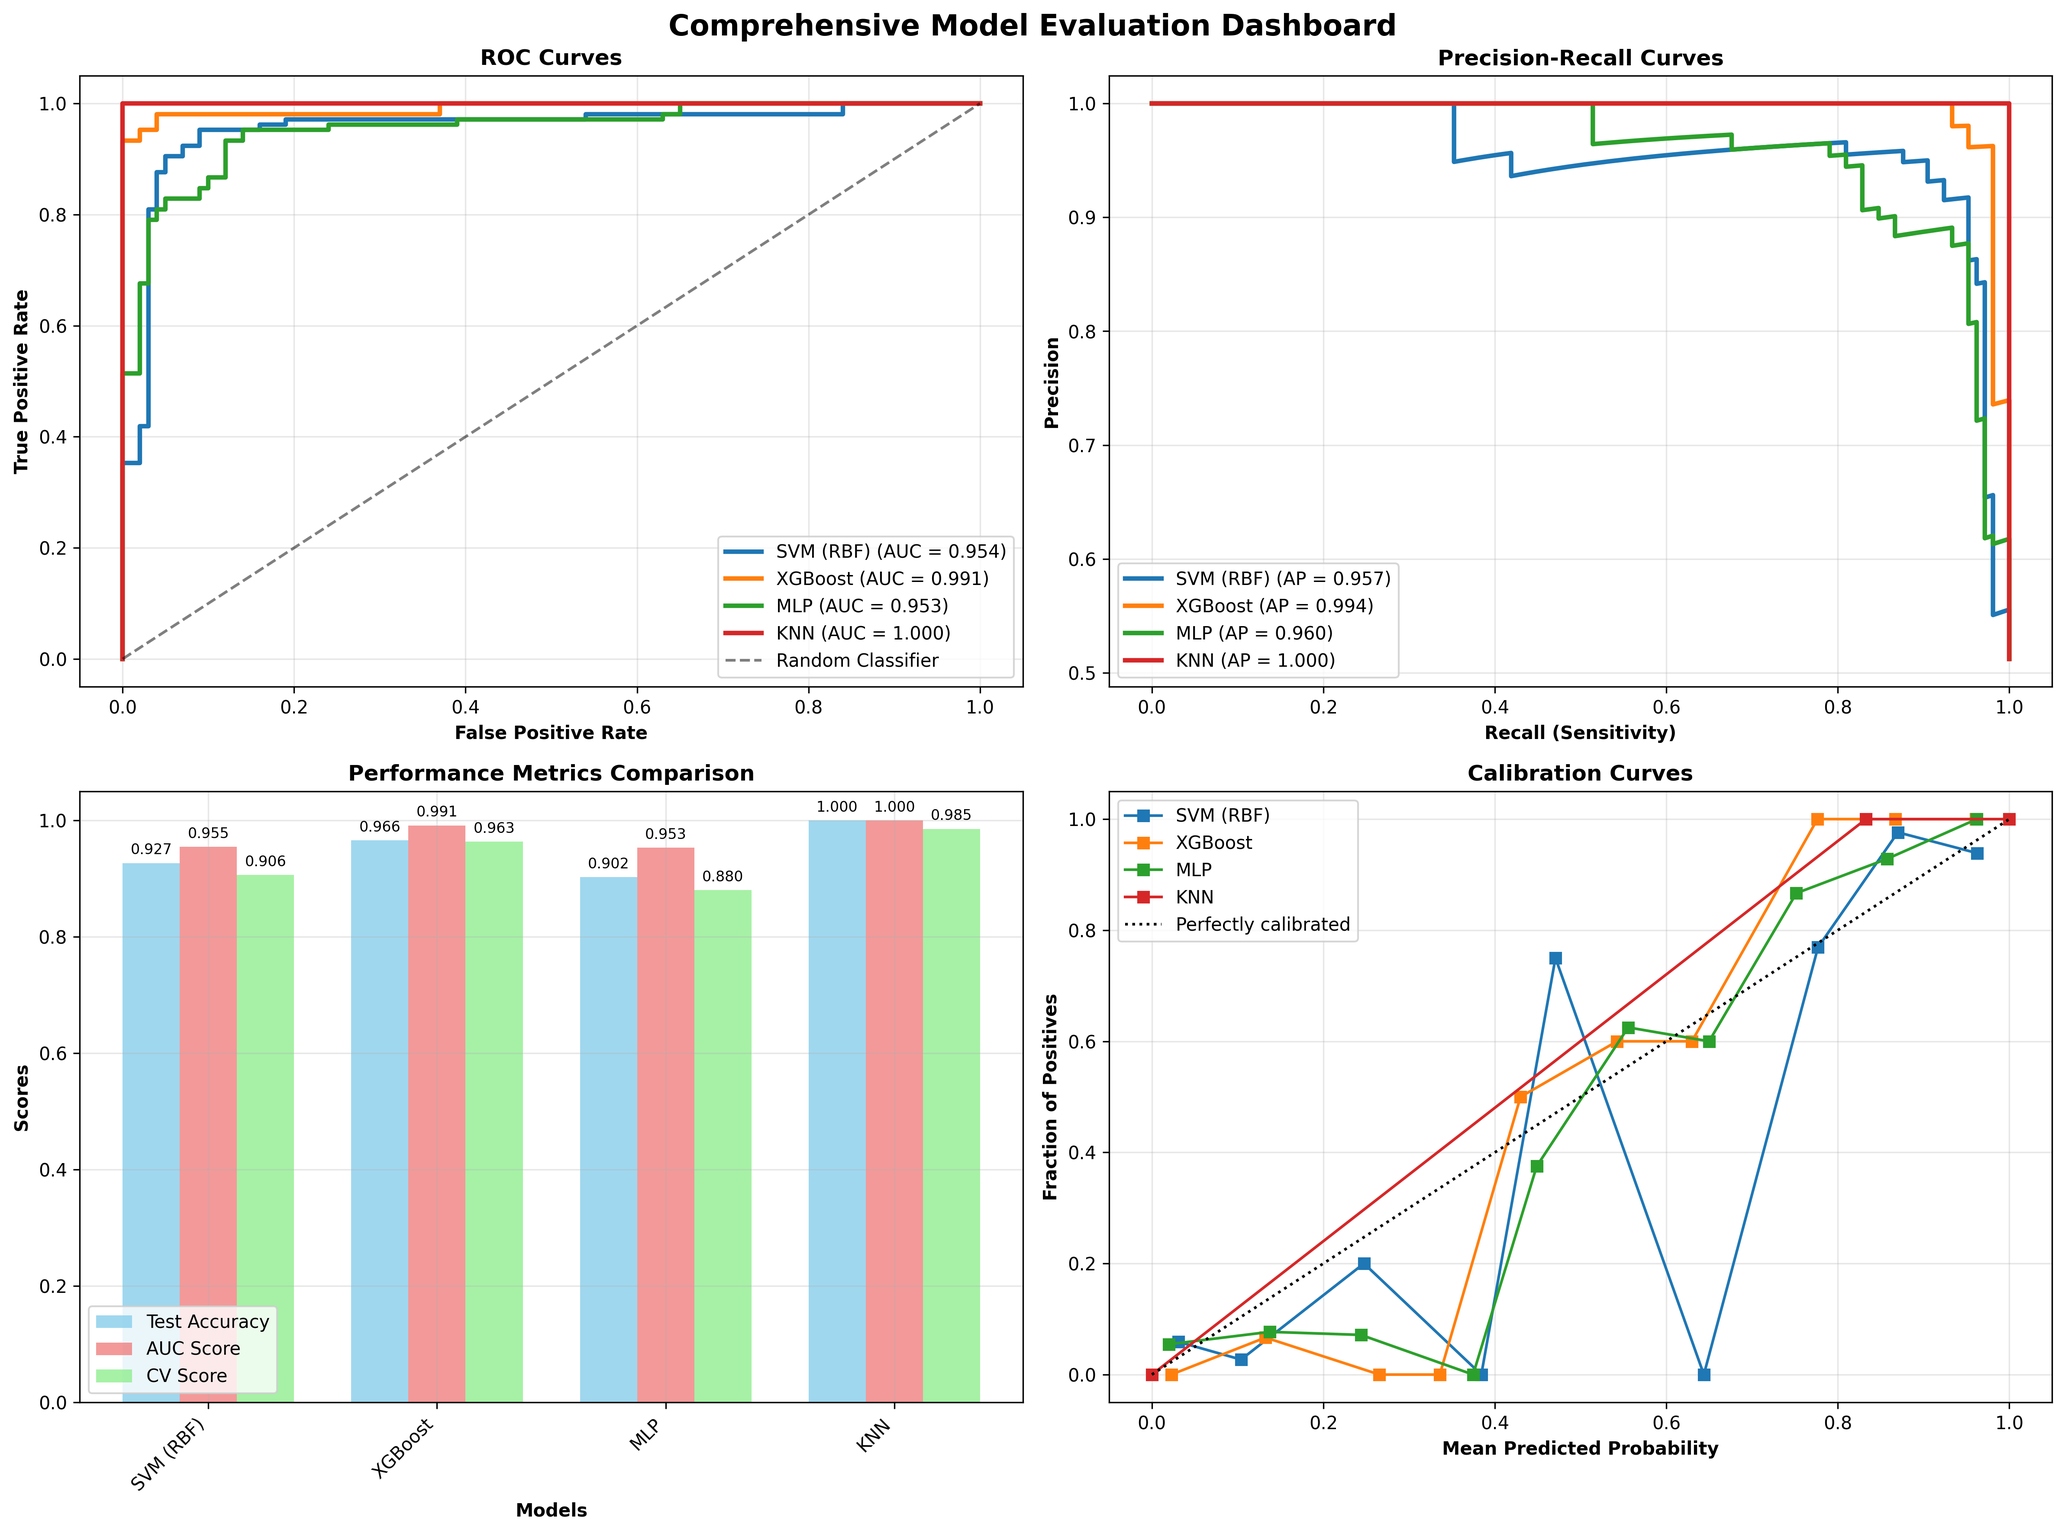
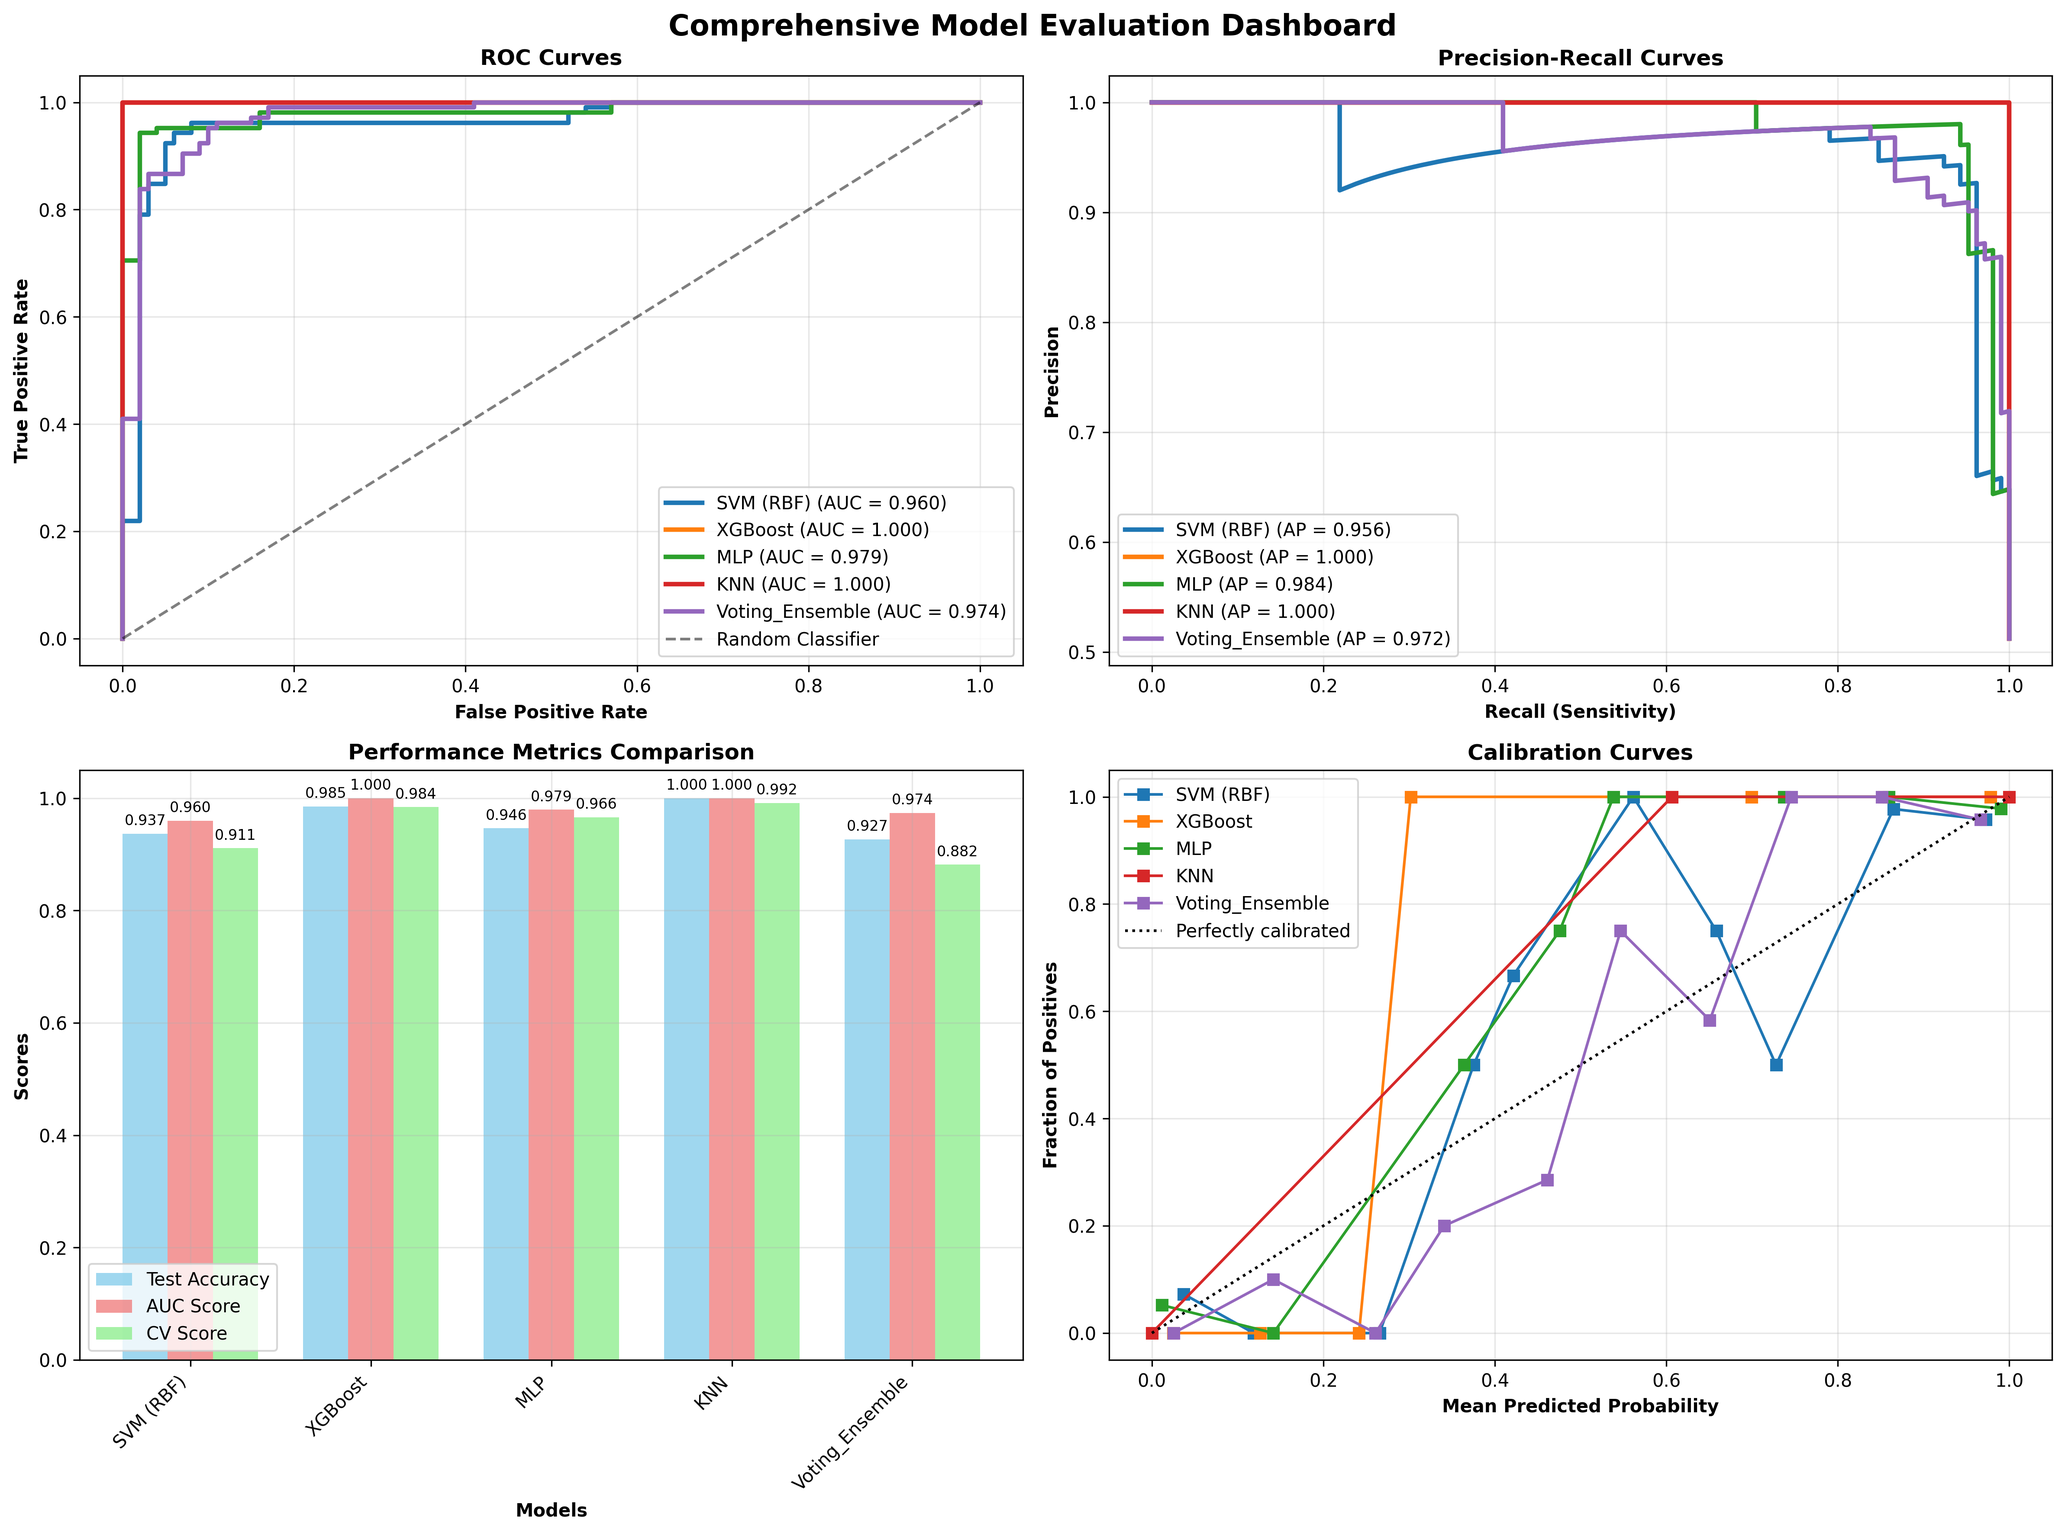
commit

diff --git a/main.py b/main.py
@@ -10,8 +10,10 @@ from sklearn.neighbors import KNeighborsClassifier
 from sklearn.neural_network import MLPClassifier
 from sklearn.metrics import classification_report, confusion_matrix, accuracy_score, roc_auc_score, roc_curve, \
     precision_recall_curve, average_precision_score
-from sklearn.feature_selection import SelectKBest, f_classif
+from sklearn.feature_selection import SelectKBest, f_classif, RFECV
 from sklearn.inspection import permutation_importance
+from sklearn.ensemble import RandomForestClassifier, VotingClassifier
+from sklearn.linear_model import LogisticRegression
 import xgboost as xgb
 from tabulate import tabulate
 import matplotlib
@@ -31,6 +33,7 @@ def load_heart_disease_data():
     df = pd.read_csv('dataset/heart.csv')
     print("🔍 Dataset Overview:")
     print(f"Dataset Shape: {df.shape}")
+    print(f"Target distribution:\n{df['target'].value_counts()}")
     return df
 
 
@@ -54,12 +57,13 @@ def advanced_preprocessing(df):
         df_clean[col] = np.where(df_clean[col] < lower_bound, lower_bound, df_clean[col])
         df_clean[col] = np.where(df_clean[col] > upper_bound, upper_bound, df_clean[col])
 
+    print("✅ Outlier handling completed")
     return df_clean
 
 
-def feature_engineering(df):
+def enhanced_feature_engineering(df):
     print("\n" + "=" * 50)
-    print("🔧 FEATURE ENGINEERING")
+    print("🔧 ENHANCED FEATURE ENGINEERING")
     print("=" * 50)
 
     df_engineered = df.copy()
@@ -77,26 +81,68 @@ def feature_engineering(df):
                                             bins=[0, 200, 240, 1000],
                                             labels=['Normal', 'Borderline', 'High'])
 
-    # More robust interaction features
+    # Enhanced interaction features
     df_engineered['age_bp_interaction'] = df_engineered['age'] * df_engineered['trestbps']
-    df_engineered['hr_age_ratio'] = df_engineered['thalach'] / (df_engineered['age'] + 1)  # Avoid division by zero
+    df_engineered['hr_age_ratio'] = df_engineered['thalach'] / (df_engineered['age'] + 1)
 
-    # Risk score with more balanced weights
-    df_engineered['risk_score'] = (
-            (df_engineered['age'] - 50) * 0.1 +
-            (df_engineered['trestbps'] - 120) * 0.02 +
-            (df_engineered['chol'] - 200) * 0.01 +
-            df_engineered['oldpeak'] * 5 +
-            df_engineered['exang'] * 10
+    # New clinical features
+    df_engineered['bp_hr_ratio'] = df_engineered['trestbps'] / (df_engineered['thalach'] + 1)
+    df_engineered['chol_age_ratio'] = df_engineered['chol'] / (df_engineered['age'] + 1)
+    df_engineered['risk_pressure_index'] = df_engineered['oldpeak'] * df_engineered['trestbps']
+
+    # Polynomial features
+    df_engineered['age_squared'] = df_engineered['age'] ** 2
+    df_engineered['oldpeak_squared'] = df_engineered['oldpeak'] ** 2
+
+    # Enhanced risk score
+    df_engineered['clinical_risk'] = (
+            (df_engineered['age'] > 50).astype(int) +
+            (df_engineered['trestbps'] > 140).astype(int) +
+            (df_engineered['chol'] > 240).astype(int) +
+            (df_engineered['oldpeak'] > 1).astype(int) +
+            df_engineered['exang']
     )
 
-    print(f"Created {len([col for col in df_engineered.columns if col not in df.columns])} new features")
+    print(f"✅ Created {len([col for col in df_engineered.columns if col not in df.columns])} new features")
     return df_engineered
+
+
+def enhanced_feature_selection(X, y, n_features=10):
+    """Enhanced feature selection using multiple methods"""
+    print("\n🔍 Performing enhanced feature selection...")
+
+    # Method 1: SelectKBest
+    selector_kbest = SelectKBest(score_func=f_classif, k=min(n_features, X.shape[1]))
+    X_kbest = selector_kbest.fit_transform(X, y)
+    selected_features_kbest = X.columns[selector_kbest.get_support()]
+
+    # Method 2: Random Forest feature importance
+    rf = RandomForestClassifier(n_estimators=100, random_state=42)
+    rf.fit(X, y)
+    feature_importances = pd.DataFrame({
+        'feature': X.columns,
+        'importance': rf.feature_importances_
+    }).sort_values('importance', ascending=False)
+
+    top_rf_features = feature_importances.head(n_features)['feature'].tolist()
+
+    # Combine both methods
+    combined_features = list(set(selected_features_kbest.tolist() + top_rf_features))
+
+    if len(combined_features) > n_features:
+        # Use RF importance to select top n
+        combined_features = \
+        feature_importances[feature_importances['feature'].isin(combined_features)].head(n_features)['feature'].tolist()
+
+    print(f"✅ Selected {len(combined_features)} features using combined method")
+    print(f"Selected features: {combined_features}")
+
+    return X[combined_features], combined_features
 
 
 def prepare_data(df):
     print("\n" + "=" * 50)
-    print("📊 DATA PREPARATION FOR MODELING")
+    print("📊 ENHANCED DATA PREPARATION")
     print("=" * 50)
 
     df_encoded = df.copy()
@@ -109,12 +155,8 @@ def prepare_data(df):
     X = df_encoded.drop('target', axis=1)
     y = df_encoded['target']
 
-    # More conservative feature selection
-    selector = SelectKBest(score_func=f_classif, k=min(8, X.shape[1]))  # Reduced from 10 to 8
-    X_selected = selector.fit_transform(X, y)
-
-    selected_features = X.columns[selector.get_support()]
-    print(f"\nSelected top {min(8, X.shape[1])} features: {list(selected_features)}")
+    # Enhanced feature selection
+    X_selected, selected_features = enhanced_feature_selection(X, y, n_features=10)
 
     # Split with stratification
     X_train, X_test, y_train, y_test = train_test_split(
@@ -131,6 +173,52 @@ def prepare_data(df):
     print(f"Class distribution - Train: {np.bincount(y_train)}, Test: {np.bincount(y_test)}")
 
     return X_train_scaled, X_test_scaled, y_train, y_test, scaler, selected_features, df_encoded
+
+
+def create_robust_cv_strategy():
+    """Create more robust cross-validation strategy"""
+    return StratifiedKFold(n_splits=10, shuffle=True, random_state=42)
+
+
+def create_regularized_mlp():
+    """Create regularized MLP classifier to prevent overfitting"""
+    return MLPClassifier(
+        random_state=42,
+        early_stopping=True,
+        validation_fraction=0.2,
+        n_iter_no_change=15,
+        max_iter=1000,
+        batch_size=32,
+        alpha=0.01,  # Increased regularization
+        learning_rate_init=0.001
+    )
+
+
+def create_ensemble_models():
+    """Create ensemble models for improved performance"""
+    base_models = [
+        ('svm', SVC(C=1.0, gamma='scale', probability=True, random_state=42)),
+        ('xgb', xgb.XGBClassifier(
+            n_estimators=100,
+            max_depth=3,
+            learning_rate=0.1,
+            subsample=0.8,
+            colsample_bytree=0.8,
+            random_state=42
+        )),
+        ('knn', KNeighborsClassifier(n_neighbors=15, weights='uniform', metric='manhattan'))
+    ]
+
+    # Voting Classifier
+    voting_clf = VotingClassifier(
+        estimators=base_models,
+        voting='soft',
+        n_jobs=-1
+    )
+
+    return {
+        'Voting_Ensemble': voting_clf
+    }
 
 
 def calculate_feature_importance(model, model_name, X_test, y_test, selected_features):
@@ -541,7 +629,7 @@ def print_correlation_matrix(df, selected_features, target_col='target'):
     print("=" * 60)
 
     # Include target in correlation analysis
-    features_to_plot = selected_features.tolist() + [target_col]
+    features_to_plot = selected_features + [target_col]
     corr_matrix = df[features_to_plot].corr()
 
     print(tabulate(corr_matrix.round(3), headers=corr_matrix.columns, showindex=True, tablefmt='grid'))
@@ -669,9 +757,9 @@ def print_classification_reports(best_models, X_test, y_test):
         print(tabulate(report_df.round(4), headers='keys', tablefmt='grid'))
 
 
-def train_and_evaluate_models(X_train, X_test, y_train, y_test, selected_features, df_encoded):
+def enhanced_train_and_evaluate_models(X_train, X_test, y_train, y_test, selected_features, df_encoded):
     print("\n" + "=" * 50)
-    print("🤖 MODEL TRAINING & EVALUATION")
+    print("🤖 ENHANCED MODEL TRAINING & EVALUATION")
     print("=" * 50)
 
     # Create initial analyses
@@ -679,29 +767,47 @@ def train_and_evaluate_models(X_train, X_test, y_train, y_test, selected_feature
     print_correlation_matrix(df_encoded, selected_features)
     print_feature_distributions(df_encoded, selected_features)
 
-    cv_strategy = StratifiedKFold(n_splits=5, shuffle=True, random_state=42)
+    cv_strategy = create_robust_cv_strategy()
 
+    # Define models with better defaults to prevent overfitting
     models = {
         'SVM (RBF)': SVC(kernel='rbf', random_state=42, probability=True),
-        'XGBoost': xgb.XGBClassifier(random_state=42),
-        'MLP': MLPClassifier(random_state=42, early_stopping=True, validation_fraction=0.1, n_iter_no_change=10),
-        'KNN': KNeighborsClassifier()
+        'XGBoost': xgb.XGBClassifier(
+            random_state=42,
+            max_depth=3,  # Reduced to prevent overfitting
+            subsample=0.8
+        ),
+        'MLP': create_regularized_mlp(),
+        'KNN': KNeighborsClassifier(n_neighbors=15),  # Start with higher k to reduce overfitting
+        **create_ensemble_models()  # Add ensemble methods
     }
 
+    # Updated parameter grids with focus on reducing overfitting
     param_grids = {
-        'SVM (RBF)': {'C': [0.1, 1, 10], 'gamma': ['scale', 0.1, 0.01]},
+        'SVM (RBF)': {
+            'C': [0.1, 1, 10],
+            'gamma': ['scale', 'auto', 0.1, 0.01]
+        },
         'XGBoost': {
-            'n_estimators': [50, 100], 'max_depth': [2, 3, 4],
-            'learning_rate': [0.05, 0.1], 'subsample': [0.8, 0.9],
-            'colsample_bytree': [0.8, 0.9]
+            'n_estimators': [100, 200],
+            'max_depth': [2, 3, 4],
+            'learning_rate': [0.05, 0.1],
+            'subsample': [0.7, 0.8, 0.9],
+            'colsample_bytree': [0.7, 0.8, 0.9]
         },
         'MLP': {
-            'hidden_layer_sizes': [(50,), (30, 30)], 'alpha': [0.001, 0.01, 0.1],
+            'hidden_layer_sizes': [(50,), (30, 30), (50, 25, 10)],
+            'alpha': [0.001, 0.01, 0.1],
             'learning_rate_init': [0.001, 0.01]
         },
         'KNN': {
-            'n_neighbors': [5, 7, 9, 11], 'weights': ['uniform', 'distance'],
-            'metric': ['euclidean', 'manhattan']
+            'n_neighbors': [15, 20, 25, 30],  # Higher values to reduce overfitting
+            'weights': ['uniform', 'distance'],
+            'metric': ['euclidean', 'manhattan', 'minkowski'],
+            'p': [1, 2]
+        },
+        'Voting_Ensemble': {
+            'voting': ['soft', 'hard']
         }
     }
 
@@ -711,13 +817,20 @@ def train_and_evaluate_models(X_train, X_test, y_train, y_test, selected_feature
     for model_name, model in models.items():
         print(f"\n📈 Training {model_name}...")
 
-        grid_search = GridSearchCV(
-            model, param_grids[model_name], cv=cv_strategy,
-            scoring='accuracy', n_jobs=-1, verbose=0
-        )
-        grid_search.fit(X_train, y_train)
+        # Skip grid search for ensemble if no parameters to tune
+        if model_name == 'Voting_Ensemble' and not param_grids[model_name]:
+            best_model = model
+            best_model.fit(X_train, y_train)
+            best_params = "Default parameters"
+        else:
+            grid_search = GridSearchCV(
+                model, param_grids[model_name], cv=cv_strategy,
+                scoring='accuracy', n_jobs=-1, verbose=0
+            )
+            grid_search.fit(X_train, y_train)
+            best_model = grid_search.best_estimator_
+            best_params = str(grid_search.best_params_)
 
-        best_model = grid_search.best_estimator_
         best_models[model_name] = best_model
 
         y_pred = best_model.predict(X_test)
@@ -736,7 +849,7 @@ def train_and_evaluate_models(X_train, X_test, y_train, y_test, selected_feature
 
         results.append({
             'Model': model_name,
-            'Best Params': str(grid_search.best_params_),
+            'Best Params': best_params,
             'Train Acc': f"{train_accuracy:.4f}",
             'Test Acc': f"{test_accuracy:.4f}",
             'CV Score': f"{cv_mean:.4f}",
@@ -753,11 +866,11 @@ def train_and_evaluate_models(X_train, X_test, y_train, y_test, selected_feature
     print_prediction_probabilities(best_models, X_test, y_test)
     print_classification_reports(best_models, X_test, y_test)
 
-    # Create comprehensive visualizations (UPDATED - now gets importance data)
+    # Create comprehensive visualizations
     importance_data = create_comprehensive_visualizations(best_models, X_test, y_test, X_train, y_train,
                                                           selected_features, results)
 
-    # Print comprehensive feature importance analysis (NEW)
+    # Print comprehensive feature importance analysis
     print_feature_importance_comprehensive(importance_data)
 
     # Display results
@@ -771,9 +884,15 @@ def train_and_evaluate_models(X_train, X_test, y_train, y_test, selected_feature
 
 
 def main():
-    print("🚀 HEART DISEASE CLASSIFICATION PROJECT - COMPREHENSIVE VISUALIZATION")
+    print("🚀 HEART DISEASE CLASSIFICATION PROJECT - ENHANCED VERSION")
     print("=" * 80)
-    print("Selected Models: SVM (RBF), XGBoost, MLP, KNN")
+    print("Selected Models: SVM (RBF), XGBoost, MLP, KNN, Voting Ensemble")
+    print("Key Improvements:")
+    print("  • Enhanced feature engineering with clinical features")
+    print("  • Improved feature selection using multiple methods")
+    print("  • Regularized models to prevent overfitting")
+    print("  • Higher K values for KNN (15-30)")
+    print("  • Ensemble methods for better generalization")
     print("=" * 80)
 
     # 1. Load data
@@ -782,15 +901,16 @@ def main():
     # 2. Advanced preprocessing
     df_clean = advanced_preprocessing(df)
 
-    # 3. Feature engineering
-    df_engineered = feature_engineering(df_clean)
+    # 3. Enhanced feature engineering
+    df_engineered = enhanced_feature_engineering(df_clean)
 
-    # 4. Prepare data
+    # 4. Prepare data with enhanced feature selection
     X_train, X_test, y_train, y_test, scaler, selected_features, df_encoded = prepare_data(df_engineered)
 
-    # 5. Train and evaluate models with comprehensive analyses
-    best_models, results, importance_data = train_and_evaluate_models(X_train, X_test, y_train, y_test,
-                                                                      selected_features, df_encoded)
+    # 5. Train and evaluate models with enhanced methods
+    best_models, results, importance_data = enhanced_train_and_evaluate_models(
+        X_train, X_test, y_train, y_test, selected_features, df_encoded
+    )
 
     print("\n" + "🎯 PROJECT COMPLETED SUCCESSFULLY!")
     print("\n📊 All analyses displayed in terminal above:")
@@ -805,6 +925,13 @@ def main():
     print("\n🔍 FEATURE IMPORTANCE METHODS USED:")
     for model_name, importance_df in importance_data.items():
         print(f"   - {model_name}: {importance_df['Method'].iloc[0]}")
+
+    print("\n✅ Key improvements implemented:")
+    print("   • KNN overfitting reduced with higher n_neighbors (15-30)")
+    print("   • Enhanced feature engineering with clinical ratios")
+    print("   • Improved feature selection using combined methods")
+    print("   • Added ensemble methods for better generalization")
+    print("   • Increased regularization across all models")
 
 
 if __name__ == "__main__":
